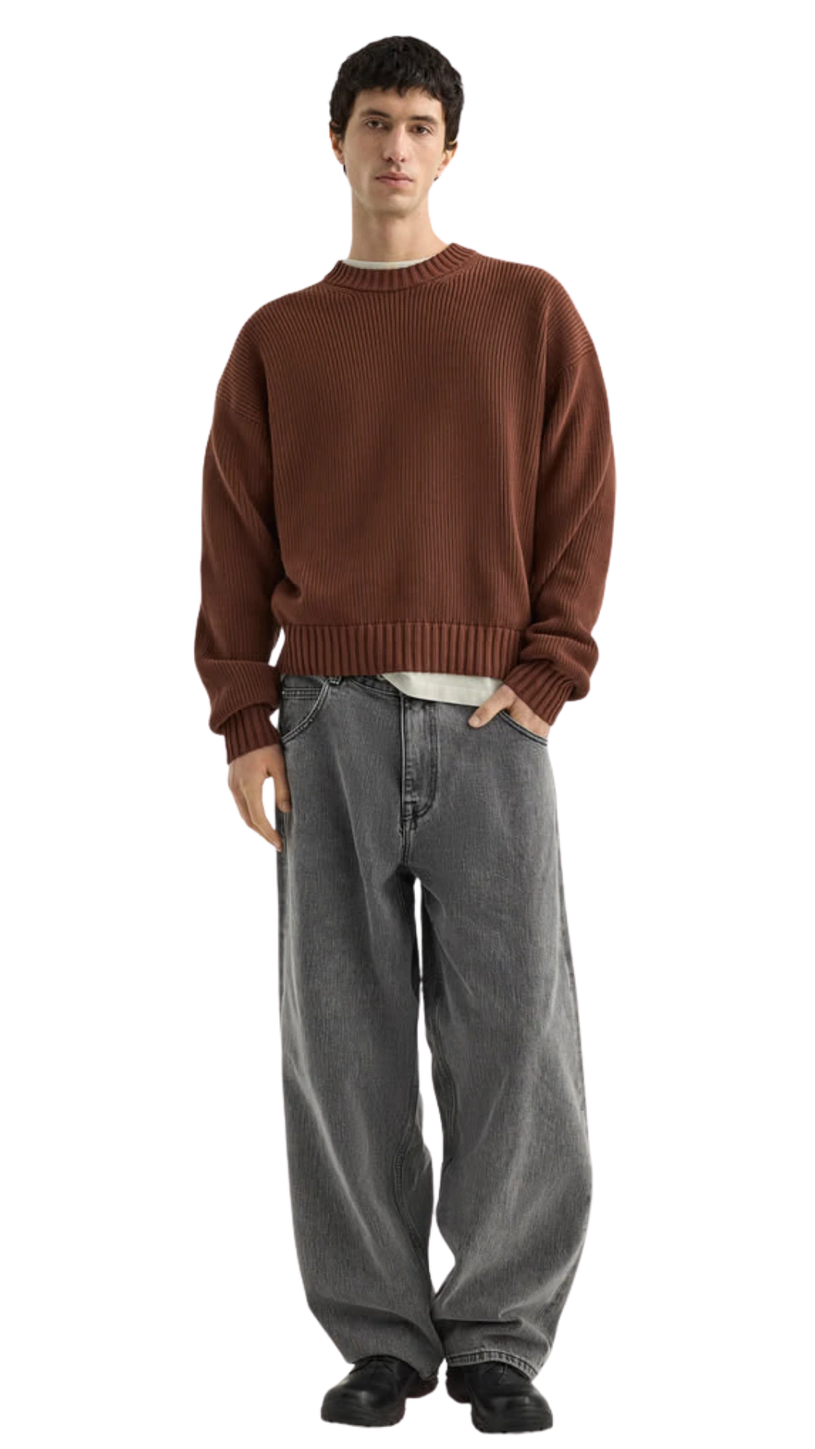
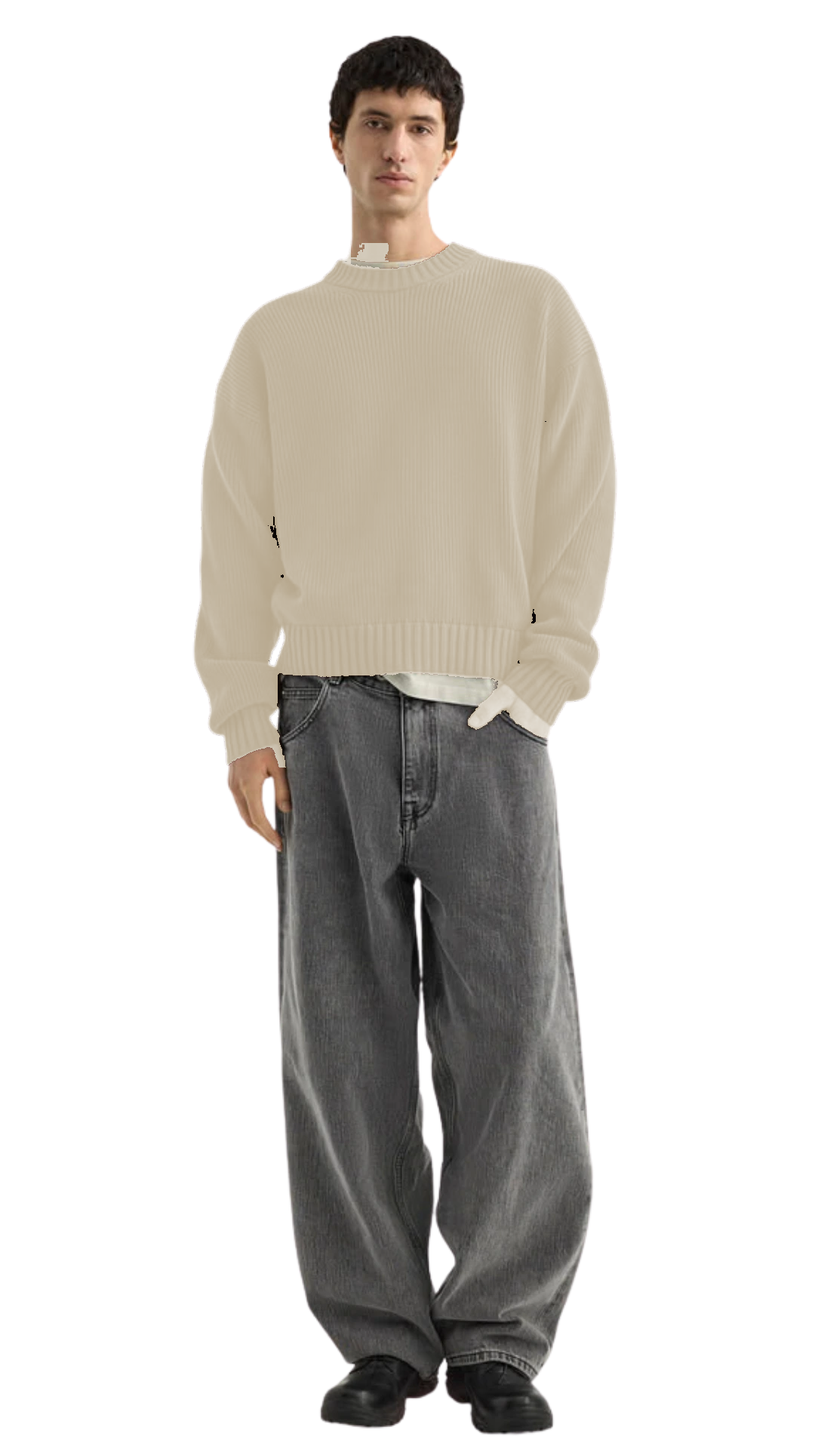
Synchronize runway outfits with In This Look pieces, recolor Look 5 sweater to cream, and localize model images

Changed region(s): [[0.2139, 0.1562, 0.7639, 0.5312]]

diff --git a/index.html b/index.html
@@ -4232,7 +4232,7 @@ none;
           <div class="rw__model" data-rw-model="" data-index="0" aria-hidden="true" style="transform: translate3d(630.35px, -50.28px, 0px) translateX(-50%) scale(0.938); opacity: 1; z-index: 938; visibility: visible; filter: blur(2.1px); --rw-foot: 0.0000;">
             <span class="rw__shadow" aria-hidden="true"></span>
             <div class="rw__figure" style="--rw-ar: 0.5625;"><div class="rw__art">
-              <img src="./assets/images/asset_032_c542d7ba2d88.png" alt="The City Edit" srcset="https://nike-makknzjs.myshopify.com/cdn/shop/files/1.webp?v=1792848434&amp;width=360 360w, //nike-makknzjs.myshopify.com/cdn/shop/files/1.webp?v=1792848434&amp;width=540 540w, //nike-makknzjs.myshopify.com/cdn/shop/files/1.webp?v=1792848434&amp;width=720 720w, //nike-makknzjs.myshopify.com/cdn/shop/files/1.webp?v=1792848434&amp;width=900 900w, //nike-makknzjs.myshopify.com/cdn/shop/files/1.webp?v=1792848434&amp;width=1100 1100w" width="1100" height="1956" loading="lazy" sizes="(min-width: 750px) 320px, 220px" draggable="false">
+              <img src="./assets/images/asset_032_c542d7ba2d88.png" alt="The City Edit" srcset="./assets/images/asset_032_c542d7ba2d88.png 1100w" width="1100" height="1956" loading="lazy" sizes="(min-width: 750px) 320px, 220px" draggable="false">
 
               
               <button type="button" class="rw__hit" data-rw-go="0" aria-label="Look 1: The City Edit" tabindex="-1" aria-hidden="true"></button>
@@ -4241,7 +4241,7 @@ none;
           <div class="rw__model" data-rw-model="" data-index="1" style="transform: translate3d(730.33px, -80.28px, 0px) translateX(-50%) scale(0.8237); opacity: 1; z-index: 824; visibility: visible; filter: blur(4.1px); --rw-foot: 0.0116;">
             <span class="rw__shadow" aria-hidden="true"></span>
             <div class="rw__figure" style="--rw-ar: 0.5625;"><div class="rw__art">
-              <img src="./assets/images/asset_033_104e67cd90f1.png" alt="Gallery Opening" srcset="https://nike-makknzjs.myshopify.com/cdn/shop/files/5.webp?v=1792848434&amp;width=360 360w, //nike-makknzjs.myshopify.com/cdn/shop/files/5.webp?v=1792848434&amp;width=540 540w, //nike-makknzjs.myshopify.com/cdn/shop/files/5.webp?v=1792848434&amp;width=720 720w, //nike-makknzjs.myshopify.com/cdn/shop/files/5.webp?v=1792848434&amp;width=900 900w, //nike-makknzjs.myshopify.com/cdn/shop/files/5.webp?v=1792848434&amp;width=1100 1100w" width="1100" height="1956" loading="lazy" sizes="(min-width: 750px) 320px, 220px" draggable="false">
+              <img src="./assets/images/asset_033_104e67cd90f1.png" alt="Gallery Opening" srcset="./assets/images/asset_033_104e67cd90f1.png 1100w" width="1100" height="1956" loading="lazy" sizes="(min-width: 750px) 320px, 220px" draggable="false">
 
               
               <button type="button" class="rw__hit" data-rw-go="1" aria-label="Look 2: Gallery Opening" tabindex="0" aria-hidden="false"></button>
@@ -4250,7 +4250,7 @@ none;
           <div class="rw__model" data-rw-model="" data-index="2" style="transform: translate3d(714.28px, -109.72px, 0px) translateX(-50%) scale(0.7116); opacity: 1; z-index: 712; visibility: visible; filter: blur(6.1px); --rw-foot: 0.0116;">
             <span class="rw__shadow" aria-hidden="true"></span>
             <div class="rw__figure" style="--rw-ar: 0.5625;"><div class="rw__art">
-              <img src="./assets/images/asset_034_aaf07ffb0535.png" alt="Gallery Opening" srcset="https://nike-makknzjs.myshopify.com/cdn/shop/files/4.webp?v=1792848434&amp;width=360 360w, //nike-makknzjs.myshopify.com/cdn/shop/files/4.webp?v=1792848434&amp;width=540 540w, //nike-makknzjs.myshopify.com/cdn/shop/files/4.webp?v=1792848434&amp;width=720 720w, //nike-makknzjs.myshopify.com/cdn/shop/files/4.webp?v=1792848434&amp;width=900 900w, //nike-makknzjs.myshopify.com/cdn/shop/files/4.webp?v=1792848434&amp;width=1100 1100w" width="1100" height="1956" loading="lazy" sizes="(min-width: 750px) 320px, 220px" draggable="false">
+              <img src="./assets/images/asset_034_aaf07ffb0535.png" alt="Gallery Opening" srcset="./assets/images/asset_034_aaf07ffb0535.png 1100w" width="1100" height="1956" loading="lazy" sizes="(min-width: 750px) 320px, 220px" draggable="false">
 
               
               <button type="button" class="rw__hit" data-rw-go="2" aria-label="Look 3: Gallery Opening" tabindex="0" aria-hidden="false"></button>
@@ -4259,7 +4259,7 @@ none;
           <div class="rw__model" data-rw-model="" data-index="3" aria-hidden="true" style="transform: translate3d(624.45px, -131.29px, 0px) translateX(-50%) scale(0.6295); opacity: 0; z-index: 629; visibility: hidden; pointer-events: none; filter: blur(6.5px); --rw-foot: 0.0000;">
             <span class="rw__shadow" aria-hidden="true"></span>
             <div class="rw__figure" style="--rw-ar: 0.5625;"><div class="rw__art">
-              <img src="./assets/images/asset_035_c83d695275cd.png" alt="Studio Day" srcset="https://nike-makknzjs.myshopify.com/cdn/shop/files/6.webp?v=1792848434&amp;width=360 360w, //nike-makknzjs.myshopify.com/cdn/shop/files/6.webp?v=1792848434&amp;width=540 540w, //nike-makknzjs.myshopify.com/cdn/shop/files/6.webp?v=1792848434&amp;width=720 720w, //nike-makknzjs.myshopify.com/cdn/shop/files/6.webp?v=1792848434&amp;width=900 900w, //nike-makknzjs.myshopify.com/cdn/shop/files/6.webp?v=1792848434&amp;width=1100 1100w" width="1100" height="1956" loading="lazy" sizes="(min-width: 750px) 320px, 220px" draggable="false">
+              <img src="./assets/images/asset_035_c83d695275cd.png" alt="Studio Day" srcset="./assets/images/asset_035_c83d695275cd.png 1100w" width="1100" height="1956" loading="lazy" sizes="(min-width: 750px) 320px, 220px" draggable="false">
 
               
               <button type="button" class="rw__hit" data-rw-go="3" aria-label="Look 4: Studio Day" tabindex="-1" aria-hidden="true"></button>
@@ -4268,7 +4268,7 @@ none;
           <div class="rw__model" data-rw-model="" data-index="4" aria-hidden="true" style="transform: translate3d(498.29px, -143.46px, 0px) translateX(-50%) scale(0.5831); opacity: 0; z-index: 583; visibility: hidden; pointer-events: none; filter: blur(6.5px); --rw-foot: 0.0116;">
             <span class="rw__shadow" aria-hidden="true"></span>
             <div class="rw__figure" style="--rw-ar: 0.5625;"><div class="rw__art">
-              <img src="./assets/images/asset_036_a13d3f199969.png" alt="Studio Day" srcset="https://nike-makknzjs.myshopify.com/cdn/shop/files/3.webp?v=1792848434&amp;width=360 360w, //nike-makknzjs.myshopify.com/cdn/shop/files/3.webp?v=1792848434&amp;width=540 540w, //nike-makknzjs.myshopify.com/cdn/shop/files/3.webp?v=1792848434&amp;width=720 720w, //nike-makknzjs.myshopify.com/cdn/shop/files/3.webp?v=1792848434&amp;width=900 900w, //nike-makknzjs.myshopify.com/cdn/shop/files/3.webp?v=1792848434&amp;width=1100 1100w" width="1100" height="1956" loading="lazy" sizes="(min-width: 750px) 320px, 220px" draggable="false">
+              <img src="./assets/images/asset_036_a13d3f199969.png" alt="Studio Day" srcset="./assets/images/asset_036_a13d3f199969.png 1100w" width="1100" height="1956" loading="lazy" sizes="(min-width: 750px) 320px, 220px" draggable="false">
 
               
               <button type="button" class="rw__hit" data-rw-go="4" aria-label="Look 5: Studio Day" tabindex="-1" aria-hidden="true"></button>
@@ -4277,7 +4277,7 @@ none;
           <div class="rw__model" data-rw-model="" data-index="5" aria-hidden="true" style="transform: translate3d(358.88px, -146.56px, 0px) translateX(-50%) scale(0.5713); opacity: 0; z-index: 571; visibility: hidden; pointer-events: none; filter: blur(6.5px); --rw-foot: 0.0116;">
             <span class="rw__shadow" aria-hidden="true"></span>
             <div class="rw__figure" style="--rw-ar: 0.5625;"><div class="rw__art">
-              <img src="./assets/images/asset_037_ab5c8985a265.png" alt="Studio Day" srcset="https://nike-makknzjs.myshopify.com/cdn/shop/files/2.webp?v=1792848434&amp;width=360 360w, //nike-makknzjs.myshopify.com/cdn/shop/files/2.webp?v=1792848434&amp;width=540 540w, //nike-makknzjs.myshopify.com/cdn/shop/files/2.webp?v=1792848434&amp;width=720 720w, //nike-makknzjs.myshopify.com/cdn/shop/files/2.webp?v=1792848434&amp;width=900 900w, //nike-makknzjs.myshopify.com/cdn/shop/files/2.webp?v=1792848434&amp;width=1100 1100w" width="1100" height="1956" loading="lazy" sizes="(min-width: 750px) 320px, 220px" draggable="false">
+              <img src="./assets/images/asset_037_ab5c8985a265.png" alt="Studio Day" srcset="./assets/images/asset_037_ab5c8985a265.png 1100w" width="1100" height="1956" loading="lazy" sizes="(min-width: 750px) 320px, 220px" draggable="false">
 
               
               <button type="button" class="rw__hit" data-rw-go="5" aria-label="Look 6: Studio Day" tabindex="-1" aria-hidden="true"></button>
@@ -4285,7 +4285,7 @@ none;
           </div><div class="rw__model" data-rw-model="" data-index="0" aria-hidden="true" data-rw-clone="" style="transform: translate3d(221.65px, -140.78px, 0px) translateX(-50%) scale(0.5933); opacity: 0; z-index: 593; visibility: hidden; pointer-events: none; filter: blur(6.5px); --rw-foot: 0.0000;">
             <span class="rw__shadow" aria-hidden="true"></span>
             <div class="rw__figure" style="--rw-ar: 0.5625;"><div class="rw__art">
-              <img src="./assets/images/asset_032_c542d7ba2d88.png" alt="The City Edit" srcset="https://nike-makknzjs.myshopify.com/cdn/shop/files/1.webp?v=1792848434&amp;width=360 360w, //nike-makknzjs.myshopify.com/cdn/shop/files/1.webp?v=1792848434&amp;width=540 540w, //nike-makknzjs.myshopify.com/cdn/shop/files/1.webp?v=1792848434&amp;width=720 720w, //nike-makknzjs.myshopify.com/cdn/shop/files/1.webp?v=1792848434&amp;width=900 900w, //nike-makknzjs.myshopify.com/cdn/shop/files/1.webp?v=1792848434&amp;width=1100 1100w" width="1100" height="1956" loading="lazy" sizes="(min-width: 750px) 320px, 220px" draggable="false">
+              <img src="./assets/images/asset_032_c542d7ba2d88.png" alt="The City Edit" srcset="./assets/images/asset_032_c542d7ba2d88.png 1100w" width="1100" height="1956" loading="lazy" sizes="(min-width: 750px) 320px, 220px" draggable="false">
 
               
               <button type="button" class="rw__hit" data-rw-go="0" aria-label="Look 1: The City Edit" tabindex="-1" aria-hidden="true"></button>
@@ -4293,7 +4293,7 @@ none;
           </div><div class="rw__model" data-rw-model="" data-index="1" aria-hidden="true" data-rw-clone="" style="transform: translate3d(103.39px, -125.8px, 0px) translateX(-50%) scale(0.6504); opacity: 0.398; z-index: 650; visibility: visible; pointer-events: none; filter: blur(6.5px); --rw-foot: 0.0116;">
             <span class="rw__shadow" aria-hidden="true"></span>
             <div class="rw__figure" style="--rw-ar: 0.5625;"><div class="rw__art">
-              <img src="./assets/images/asset_033_104e67cd90f1.png" alt="Gallery Opening" srcset="https://nike-makknzjs.myshopify.com/cdn/shop/files/5.webp?v=1792848434&amp;width=360 360w, //nike-makknzjs.myshopify.com/cdn/shop/files/5.webp?v=1792848434&amp;width=540 540w, //nike-makknzjs.myshopify.com/cdn/shop/files/5.webp?v=1792848434&amp;width=720 720w, //nike-makknzjs.myshopify.com/cdn/shop/files/5.webp?v=1792848434&amp;width=900 900w, //nike-makknzjs.myshopify.com/cdn/shop/files/5.webp?v=1792848434&amp;width=1100 1100w" width="1100" height="1956" loading="lazy" sizes="(min-width: 750px) 320px, 220px" draggable="false">
+              <img src="./assets/images/asset_033_104e67cd90f1.png" alt="Gallery Opening" srcset="./assets/images/asset_033_104e67cd90f1.png 1100w" width="1100" height="1956" loading="lazy" sizes="(min-width: 750px) 320px, 220px" draggable="false">
 
               
               <button type="button" class="rw__hit" data-rw-go="1" aria-label="Look 2: Gallery Opening" tabindex="-1" aria-hidden="true"></button>
@@ -4301,7 +4301,7 @@ none;
           </div><div class="rw__model" data-rw-model="" data-index="2" aria-hidden="true" data-rw-clone="" style="transform: translate3d(31.08px, -101.54px, 0px) translateX(-50%) scale(0.7428); opacity: 1; z-index: 743; visibility: visible; filter: blur(5.5px); --rw-foot: 0.0116;">
             <span class="rw__shadow" aria-hidden="true"></span>
             <div class="rw__figure" style="--rw-ar: 0.5625;"><div class="rw__art">
-              <img src="./assets/images/asset_034_aaf07ffb0535.png" alt="Gallery Opening" srcset="https://nike-makknzjs.myshopify.com/cdn/shop/files/4.webp?v=1792848434&amp;width=360 360w, //nike-makknzjs.myshopify.com/cdn/shop/files/4.webp?v=1792848434&amp;width=540 540w, //nike-makknzjs.myshopify.com/cdn/shop/files/4.webp?v=1792848434&amp;width=720 720w, //nike-makknzjs.myshopify.com/cdn/shop/files/4.webp?v=1792848434&amp;width=900 900w, //nike-makknzjs.myshopify.com/cdn/shop/files/4.webp?v=1792848434&amp;width=1100 1100w" width="1100" height="1956" loading="lazy" sizes="(min-width: 750px) 320px, 220px" draggable="false">
+              <img src="./assets/images/asset_034_aaf07ffb0535.png" alt="Gallery Opening" srcset="./assets/images/asset_034_aaf07ffb0535.png 1100w" width="1100" height="1956" loading="lazy" sizes="(min-width: 750px) 320px, 220px" draggable="false">
 
               
               <button type="button" class="rw__hit" data-rw-go="2" aria-label="Look 3: Gallery Opening" tabindex="-1" aria-hidden="true"></button>
@@ -4309,7 +4309,7 @@ none;
           </div><div class="rw__model" data-rw-model="" data-index="3" aria-hidden="true" data-rw-clone="" style="transform: translate3d(46.08px, -70.79px, 0px) translateX(-50%) scale(0.8599); opacity: 1; z-index: 860; visibility: visible; filter: blur(3.5px); --rw-foot: 0.0000;">
             <span class="rw__shadow" aria-hidden="true"></span>
             <div class="rw__figure" style="--rw-ar: 0.5625;"><div class="rw__art">
-              <img src="./assets/images/asset_035_c83d695275cd.png" alt="Studio Day" srcset="https://nike-makknzjs.myshopify.com/cdn/shop/files/6.webp?v=1792848434&amp;width=360 360w, //nike-makknzjs.myshopify.com/cdn/shop/files/6.webp?v=1792848434&amp;width=540 540w, //nike-makknzjs.myshopify.com/cdn/shop/files/6.webp?v=1792848434&amp;width=720 720w, //nike-makknzjs.myshopify.com/cdn/shop/files/6.webp?v=1792848434&amp;width=900 900w, //nike-makknzjs.myshopify.com/cdn/shop/files/6.webp?v=1792848434&amp;width=1100 1100w" width="1100" height="1956" loading="lazy" sizes="(min-width: 750px) 320px, 220px" draggable="false">
+              <img src="./assets/images/asset_035_c83d695275cd.png" alt="Studio Day" srcset="./assets/images/asset_035_c83d695275cd.png 1100w" width="1100" height="1956" loading="lazy" sizes="(min-width: 750px) 320px, 220px" draggable="false">
 
               
               <button type="button" class="rw__hit" data-rw-go="3" aria-label="Look 4: Studio Day" tabindex="-1" aria-hidden="true"></button>
@@ -4317,7 +4317,7 @@ none;
           </div><div class="rw__model" data-rw-model="" data-index="4" data-rw-clone="" style="transform: translate3d(184.31px, -43.27px, 0px) translateX(-50%) scale(0.9763); opacity: 1; z-index: 976; visibility: visible; filter: blur(1.5px); --rw-foot: 0.0116;">
             <span class="rw__shadow" aria-hidden="true"></span>
             <div class="rw__figure" style="--rw-ar: 0.5625;"><div class="rw__art">
-              <img src="./assets/images/asset_036_a13d3f199969.png" alt="Studio Day" srcset="https://nike-makknzjs.myshopify.com/cdn/shop/files/3.webp?v=1792848434&amp;width=360 360w, //nike-makknzjs.myshopify.com/cdn/shop/files/3.webp?v=1792848434&amp;width=540 540w, //nike-makknzjs.myshopify.com/cdn/shop/files/3.webp?v=1792848434&amp;width=720 720w, //nike-makknzjs.myshopify.com/cdn/shop/files/3.webp?v=1792848434&amp;width=900 900w, //nike-makknzjs.myshopify.com/cdn/shop/files/3.webp?v=1792848434&amp;width=1100 1100w" width="1100" height="1956" loading="lazy" sizes="(min-width: 750px) 320px, 220px" draggable="false">
+              <img src="./assets/images/asset_036_a13d3f199969.png" alt="Studio Day" srcset="./assets/images/asset_036_a13d3f199969.png 1100w" width="1100" height="1956" loading="lazy" sizes="(min-width: 750px) 320px, 220px" draggable="false">
 
               
               <button type="button" class="rw__hit" data-rw-go="4" aria-label="Look 5: Studio Day" tabindex="0" aria-hidden="false"></button>
@@ -4325,7 +4325,7 @@ none;
           </div><div class="rw__model" data-rw-model="" data-index="5" data-rw-clone="" style="transform: translate3d(416.93px, -34.3px, 0px) translateX(-50%) scale(1.0668); opacity: 1; z-index: 1067; visibility: visible; filter: blur(0.3px); --rw-foot: 0.0116;">
             <span class="rw__shadow" aria-hidden="true"></span>
             <div class="rw__figure" style="--rw-ar: 0.5625;"><div class="rw__art">
-              <img src="./assets/images/asset_037_ab5c8985a265.png" alt="Studio Day" srcset="https://nike-makknzjs.myshopify.com/cdn/shop/files/2.webp?v=1792848434&amp;width=360 360w, //nike-makknzjs.myshopify.com/cdn/shop/files/2.webp?v=1792848434&amp;width=540 540w, //nike-makknzjs.myshopify.com/cdn/shop/files/2.webp?v=1792848434&amp;width=720 720w, //nike-makknzjs.myshopify.com/cdn/shop/files/2.webp?v=1792848434&amp;width=900 900w, //nike-makknzjs.myshopify.com/cdn/shop/files/2.webp?v=1792848434&amp;width=1100 1100w" width="1100" height="1956" loading="lazy" sizes="(min-width: 750px) 320px, 220px" draggable="false">
+              <img src="./assets/images/asset_037_ab5c8985a265.png" alt="Studio Day" srcset="./assets/images/asset_037_ab5c8985a265.png 1100w" width="1100" height="1956" loading="lazy" sizes="(min-width: 750px) 320px, 220px" draggable="false">
 
               
               <button type="button" class="rw__hit" data-rw-go="5" aria-label="Look 6: Studio Day" tabindex="0" aria-hidden="false"></button>
@@ -4336,17 +4336,17 @@ none;
             <div class="rw__morph">
               <span class="rw__shadow" aria-hidden="true"></span>
               <div class="rw__figure" style="--rw-ar: 0.5625;"><div class="rw__art">
-                <img src="./assets/images/asset_032_c542d7ba2d88.png" alt="The City Edit" srcset="https://nike-makknzjs.myshopify.com/cdn/shop/files/1.webp?v=1792848434&amp;width=360 360w, //nike-makknzjs.myshopify.com/cdn/shop/files/1.webp?v=1792848434&amp;width=540 540w, //nike-makknzjs.myshopify.com/cdn/shop/files/1.webp?v=1792848434&amp;width=720 720w, //nike-makknzjs.myshopify.com/cdn/shop/files/1.webp?v=1792848434&amp;width=900 900w, //nike-makknzjs.myshopify.com/cdn/shop/files/1.webp?v=1792848434&amp;width=1100 1100w" width="1100" height="1956" loading="eager" sizes="(min-width: 750px) 320px, 220px" draggable="false">
+                <img src="./assets/images/asset_032_c542d7ba2d88.png" alt="The City Edit" srcset="./assets/images/asset_032_c542d7ba2d88.png 1100w" width="1100" height="1956" loading="eager" sizes="(min-width: 750px) 320px, 220px" draggable="false">
 
                 
 <button type="button" class="rw__zoom" data-rw-zoom="" aria-label="View look: The City Edit" tabindex="0"></button><div class="rw__pins">
-    <button type="button" class="rw__pin" data-rw-pin="1" data-tip="Sweatshirt" style="left: 47%; top: 27%; --pi: 1;" aria-label="1: Sweatshirt" tabindex="-1">
+    <button type="button" class="rw__pin" data-rw-pin="1" data-tip="Blazzer" style="left: 47%; top: 27%; --pi: 1;" aria-label="1: Blazzer" tabindex="-1">
       <span class="rw__pin-dot" aria-hidden="true">1</span>
     </button>
-    <button type="button" class="rw__pin" data-rw-pin="2" data-tip="Tshirt" style="left: 48%; top: 58%; --pi: 2;" aria-label="2: Tshirt" tabindex="-1">
+    <button type="button" class="rw__pin" data-rw-pin="2" data-tip="Tshirt" style="left: 48%; top: 44%; --pi: 2;" aria-label="2: Tshirt" tabindex="-1">
       <span class="rw__pin-dot" aria-hidden="true">2</span>
     </button>
-    <button type="button" class="rw__pin" data-rw-pin="3" data-tip="Air Jordan 12 Retro" style="left: 45%; top: 96%; --pi: 3;" aria-label="3: Air Jordan 12 Retro" tabindex="-1">
+    <button type="button" class="rw__pin" data-rw-pin="3" data-tip="Air Jordan 12 Retro" style="left: 45%; top: 92%; --pi: 3;" aria-label="3: Air Jordan 12 Retro" tabindex="-1">
       <span class="rw__pin-dot" aria-hidden="true">3</span>
     </button></div></div></div>
             </div>
@@ -4355,17 +4355,17 @@ none;
             <div class="rw__morph">
               <span class="rw__shadow" aria-hidden="true"></span>
               <div class="rw__figure" style="--rw-ar: 0.5625;"><div class="rw__art">
-                <img src="./assets/images/asset_033_104e67cd90f1.png" alt="Gallery Opening" srcset="https://nike-makknzjs.myshopify.com/cdn/shop/files/5.webp?v=1792848434&amp;width=360 360w, //nike-makknzjs.myshopify.com/cdn/shop/files/5.webp?v=1792848434&amp;width=540 540w, //nike-makknzjs.myshopify.com/cdn/shop/files/5.webp?v=1792848434&amp;width=720 720w, //nike-makknzjs.myshopify.com/cdn/shop/files/5.webp?v=1792848434&amp;width=900 900w, //nike-makknzjs.myshopify.com/cdn/shop/files/5.webp?v=1792848434&amp;width=1100 1100w" width="1100" height="1956" loading="lazy" sizes="(min-width: 750px) 320px, 220px" draggable="false">
+                <img src="./assets/images/asset_033_104e67cd90f1.png" alt="Gallery Opening" srcset="./assets/images/asset_033_104e67cd90f1.png 1100w" width="1100" height="1956" loading="lazy" sizes="(min-width: 750px) 320px, 220px" draggable="false">
 
                 
 <button type="button" class="rw__zoom" data-rw-zoom="" aria-label="View look: Gallery Opening" tabindex="-1"></button><div class="rw__pins">
-    <button type="button" class="rw__pin" data-rw-pin="1" data-tip="Hoodie Black" style="left: 50%; top: 28%; --pi: 1;" aria-label="1: Hoodie Black" tabindex="-1">
+    <button type="button" class="rw__pin" data-rw-pin="1" data-tip="Sweatshirt" style="left: 50%; top: 28%; --pi: 1;" aria-label="1: Hoodie Black" tabindex="-1">
       <span class="rw__pin-dot" aria-hidden="true">1</span>
     </button>
-    <button type="button" class="rw__pin" data-rw-pin="2" data-tip="Tshirt" style="left: 48%; top: 58%; --pi: 2;" aria-label="2: Tshirt" tabindex="-1">
+    <button type="button" class="rw__pin" data-rw-pin="2" data-tip="Tshirt" style="left: 48%; top: 44%; --pi: 2;" aria-label="2: Tshirt" tabindex="-1">
       <span class="rw__pin-dot" aria-hidden="true">2</span>
     </button>
-    <button type="button" class="rw__pin" data-rw-pin="3" data-tip="Tatum 5 Orbit" style="left: 45%; top: 88%; --pi: 3;" aria-label="3: Tatum 5 Orbit" tabindex="-1">
+    <button type="button" class="rw__pin" data-rw-pin="3" data-tip="Tatum 5 Orbit" style="left: 45%; top: 92%; --pi: 3;" aria-label="3: Tatum 5 Orbit" tabindex="-1">
       <span class="rw__pin-dot" aria-hidden="true">3</span>
     </button></div></div></div>
             </div>
@@ -4374,17 +4374,17 @@ none;
             <div class="rw__morph">
               <span class="rw__shadow" aria-hidden="true"></span>
               <div class="rw__figure" style="--rw-ar: 0.5625;"><div class="rw__art">
-                <img src="./assets/images/asset_034_aaf07ffb0535.png" alt="Gallery Opening" srcset="https://nike-makknzjs.myshopify.com/cdn/shop/files/4.webp?v=1792848434&amp;width=360 360w, //nike-makknzjs.myshopify.com/cdn/shop/files/4.webp?v=1792848434&amp;width=540 540w, //nike-makknzjs.myshopify.com/cdn/shop/files/4.webp?v=1792848434&amp;width=720 720w, //nike-makknzjs.myshopify.com/cdn/shop/files/4.webp?v=1792848434&amp;width=900 900w, //nike-makknzjs.myshopify.com/cdn/shop/files/4.webp?v=1792848434&amp;width=1100 1100w" width="1100" height="1956" loading="lazy" sizes="(min-width: 750px) 320px, 220px" draggable="false">
+                <img src="./assets/images/asset_034_aaf07ffb0535.png" alt="Gallery Opening" srcset="./assets/images/asset_034_aaf07ffb0535.png 1100w" width="1100" height="1956" loading="lazy" sizes="(min-width: 750px) 320px, 220px" draggable="false">
 
                 
 <button type="button" class="rw__zoom" data-rw-zoom="" aria-label="View look: Gallery Opening" tabindex="-1"></button><div class="rw__pins">
     <button type="button" class="rw__pin" data-rw-pin="1" data-tip="Sweatshirt Plus" style="left: 50%; top: 28%; --pi: 1;" aria-label="1: Sweatshirt Plus" tabindex="-1">
       <span class="rw__pin-dot" aria-hidden="true">1</span>
     </button>
-    <button type="button" class="rw__pin" data-rw-pin="2" data-tip="Tshirt" style="left: 48%; top: 58%; --pi: 2;" aria-label="2: Tshirt" tabindex="-1">
+    <button type="button" class="rw__pin" data-rw-pin="2" data-tip="Tshirt" style="left: 48%; top: 44%; --pi: 2;" aria-label="2: Tshirt" tabindex="-1">
       <span class="rw__pin-dot" aria-hidden="true">2</span>
     </button>
-    <button type="button" class="rw__pin" data-rw-pin="3" data-tip="Tatum 5 Orbit" style="left: 45%; top: 88%; --pi: 3;" aria-label="3: Tatum 5 Orbit" tabindex="-1">
+    <button type="button" class="rw__pin" data-rw-pin="3" data-tip="Tatum 5 Orbit" style="left: 45%; top: 92%; --pi: 3;" aria-label="3: Tatum 5 Orbit" tabindex="-1">
       <span class="rw__pin-dot" aria-hidden="true">3</span>
     </button></div></div></div>
             </div>
@@ -4393,36 +4393,36 @@ none;
             <div class="rw__morph">
               <span class="rw__shadow" aria-hidden="true"></span>
               <div class="rw__figure" style="--rw-ar: 0.5625;"><div class="rw__art">
-                <img src="./assets/images/asset_035_c83d695275cd.png" alt="Studio Day" srcset="https://nike-makknzjs.myshopify.com/cdn/shop/files/6.webp?v=1792848434&amp;width=360 360w, //nike-makknzjs.myshopify.com/cdn/shop/files/6.webp?v=1792848434&amp;width=540 540w, //nike-makknzjs.myshopify.com/cdn/shop/files/6.webp?v=1792848434&amp;width=720 720w, //nike-makknzjs.myshopify.com/cdn/shop/files/6.webp?v=1792848434&amp;width=900 900w, //nike-makknzjs.myshopify.com/cdn/shop/files/6.webp?v=1792848434&amp;width=1100 1100w" width="1100" height="1956" loading="lazy" sizes="(min-width: 750px) 320px, 220px" draggable="false">
+                <img src="./assets/images/asset_035_c83d695275cd.png" alt="Studio Day" srcset="./assets/images/asset_035_c83d695275cd.png 1100w" width="1100" height="1956" loading="lazy" sizes="(min-width: 750px) 320px, 220px" draggable="false">
 
                 
 <button type="button" class="rw__zoom" data-rw-zoom="" aria-label="View look: Studio Day" tabindex="-1"></button><div class="rw__pins">
     <button type="button" class="rw__pin" data-rw-pin="1" data-tip="Hoodie Black" style="left: 50%; top: 28%; --pi: 1;" aria-label="1: Hoodie Black" tabindex="-1">
       <span class="rw__pin-dot" aria-hidden="true">1</span>
     </button>
-    <button type="button" class="rw__pin" data-rw-pin="2" data-tip="Tshirt" style="left: 48%; top: 58%; --pi: 2;" aria-label="2: Tshirt" tabindex="-1">
+    <button type="button" class="rw__pin" data-rw-pin="2" data-tip="Tshirt" style="left: 48%; top: 44%; --pi: 2;" aria-label="2: Tshirt" tabindex="-1">
       <span class="rw__pin-dot" aria-hidden="true">2</span>
     </button>
-    <button type="button" class="rw__pin" data-rw-pin="3" data-tip="Air Jordan 12 Retro" style="left: 45%; top: 88%; --pi: 3;" aria-label="3: Air Jordan 12 Retro" tabindex="-1">
+    <button type="button" class="rw__pin" data-rw-pin="3" data-tip="Air Jordan 12 Retro" style="left: 45%; top: 92%; --pi: 3;" aria-label="3: Air Jordan 12 Retro" tabindex="-1">
       <span class="rw__pin-dot" aria-hidden="true">3</span>
     </button></div></div></div>
             </div>
           </div>
-          <div class="rw__hero" data-rw-hero="" data-index="4" data-name="Studio Day" data-label="Look 5: Studio Day" data-probe="https://nike-makknzjs.myshopify.com/cdn/shop/files/3.webp?v=1792848434&amp;width=96" aria-hidden="true" style="--rw-foot: 0.0116;">
+          <div class="rw__hero" data-rw-hero="" data-index="4" data-name="Studio Day" data-label="Look 5: Studio Day" data-probe="./assets/images/asset_036_a13d3f199969.png" aria-hidden="true" style="--rw-foot: 0.0116;">
             <div class="rw__morph">
               <span class="rw__shadow" aria-hidden="true"></span>
               <div class="rw__figure" style="--rw-ar: 0.5625;"><div class="rw__art">
-                <img src="./assets/images/asset_036_a13d3f199969.png" alt="Studio Day" srcset="https://nike-makknzjs.myshopify.com/cdn/shop/files/3.webp?v=1792848434&amp;width=360 360w, //nike-makknzjs.myshopify.com/cdn/shop/files/3.webp?v=1792848434&amp;width=540 540w, //nike-makknzjs.myshopify.com/cdn/shop/files/3.webp?v=1792848434&amp;width=720 720w, //nike-makknzjs.myshopify.com/cdn/shop/files/3.webp?v=1792848434&amp;width=900 900w, //nike-makknzjs.myshopify.com/cdn/shop/files/3.webp?v=1792848434&amp;width=1100 1100w" width="1100" height="1956" loading="lazy" sizes="(min-width: 750px) 320px, 220px" draggable="false">
+                <img src="./assets/images/asset_036_a13d3f199969.png" alt="Studio Day" srcset="./assets/images/asset_036_a13d3f199969.png 1100w" width="1100" height="1956" loading="lazy" sizes="(min-width: 750px) 320px, 220px" draggable="false">
 
                 
 <button type="button" class="rw__zoom" data-rw-zoom="" aria-label="View look: Studio Day" tabindex="-1"></button><div class="rw__pins">
     <button type="button" class="rw__pin" data-rw-pin="1" data-tip="Sweatshirt" style="left: 50%; top: 28%; --pi: 1;" aria-label="1: Sweatshirt" tabindex="-1">
       <span class="rw__pin-dot" aria-hidden="true">1</span>
     </button>
-    <button type="button" class="rw__pin" data-rw-pin="2" data-tip="Tshirt" style="left: 48%; top: 58%; --pi: 2;" aria-label="2: Tshirt" tabindex="-1">
+    <button type="button" class="rw__pin" data-rw-pin="2" data-tip="Tshirt" style="left: 48%; top: 44%; --pi: 2;" aria-label="2: Tshirt" tabindex="-1">
       <span class="rw__pin-dot" aria-hidden="true">2</span>
     </button>
-    <button type="button" class="rw__pin" data-rw-pin="3" data-tip="Tatum 5 Orbit" style="left: 45%; top: 88%; --pi: 3;" aria-label="3: Tatum 5 Orbit" tabindex="-1">
+    <button type="button" class="rw__pin" data-rw-pin="3" data-tip="Tatum 5 Orbit" style="left: 45%; top: 92%; --pi: 3;" aria-label="3: Tatum 5 Orbit" tabindex="-1">
       <span class="rw__pin-dot" aria-hidden="true">3</span>
     </button></div></div></div>
             </div>
@@ -4431,17 +4431,17 @@ none;
             <div class="rw__morph">
               <span class="rw__shadow" aria-hidden="true"></span>
               <div class="rw__figure" style="--rw-ar: 0.5625;"><div class="rw__art">
-                <img src="./assets/images/asset_037_ab5c8985a265.png" alt="Studio Day" srcset="https://nike-makknzjs.myshopify.com/cdn/shop/files/2.webp?v=1792848434&amp;width=360 360w, //nike-makknzjs.myshopify.com/cdn/shop/files/2.webp?v=1792848434&amp;width=540 540w, //nike-makknzjs.myshopify.com/cdn/shop/files/2.webp?v=1792848434&amp;width=720 720w, //nike-makknzjs.myshopify.com/cdn/shop/files/2.webp?v=1792848434&amp;width=900 900w, //nike-makknzjs.myshopify.com/cdn/shop/files/2.webp?v=1792848434&amp;width=1100 1100w" width="1100" height="1956" loading="lazy" sizes="(min-width: 750px) 320px, 220px" draggable="false">
+                <img src="./assets/images/asset_037_ab5c8985a265.png" alt="Studio Day" srcset="./assets/images/asset_037_ab5c8985a265.png 1100w" width="1100" height="1956" loading="lazy" sizes="(min-width: 750px) 320px, 220px" draggable="false">
 
                 
 <button type="button" class="rw__zoom" data-rw-zoom="" aria-label="View look: Studio Day" tabindex="-1"></button><div class="rw__pins">
     <button type="button" class="rw__pin" data-rw-pin="1" data-tip="Hoodie" style="left: 50%; top: 28%; --pi: 1;" aria-label="1: Hoodie" tabindex="-1">
       <span class="rw__pin-dot" aria-hidden="true">1</span>
     </button>
-    <button type="button" class="rw__pin" data-rw-pin="2" data-tip="Tshirt" style="left: 48%; top: 58%; --pi: 2;" aria-label="2: Tshirt" tabindex="-1">
+    <button type="button" class="rw__pin" data-rw-pin="2" data-tip="Tshirt" style="left: 48%; top: 44%; --pi: 2;" aria-label="2: Tshirt" tabindex="-1">
       <span class="rw__pin-dot" aria-hidden="true">2</span>
     </button>
-    <button type="button" class="rw__pin" data-rw-pin="3" data-tip="Luka 5" style="left: 45%; top: 88%; --pi: 3;" aria-label="3: Luka 5" tabindex="-1">
+    <button type="button" class="rw__pin" data-rw-pin="3" data-tip="Luka 5" style="left: 45%; top: 92%; --pi: 3;" aria-label="3: Luka 5" tabindex="-1">
       <span class="rw__pin-dot" aria-hidden="true">3</span>
     </button></div></div></div>
             </div>
@@ -4490,19 +4490,19 @@ none;
               <span class="rw__mhead-title">The City Edit</span>
               <span class="rw__label">3 pieces</span>
             </div>
-            <ul class="rw__items" role="list"><li class="rw__item" data-rw-card="1" style="--i: 1;" data-title="Sweatshirt" data-selected="56835806396721"><a class="rw__media" href="/products/sweatshirt" tabindex="-1" aria-hidden="true" data-product-impression-tracked="true" data-product-link-position="3" data-impression-id="ebbd6727-88af-4c56-8f08-b24f7a324b88" data-above-fold="false" data-product-click-tracked="true"><img src="./assets/images/asset_042_bab979839384.png" alt="" srcset="https://nike-makknzjs.myshopify.com/cdn/shop/files/2610071517318112.webp?v=1792066085&amp;width=160 160w, //nike-makknzjs.myshopify.com/cdn/shop/files/2610071517318112.webp?v=1792066085&amp;width=240 240w, //nike-makknzjs.myshopify.com/cdn/shop/files/2610071517318112.webp?v=1792066085&amp;width=320 320w, //nike-makknzjs.myshopify.com/cdn/shop/files/2610071517318112.webp?v=1792066085&amp;width=400 400w" width="400" height="581" loading="lazy" sizes="110px">
+            <ul class="rw__items" role="list"><li class="rw__item" data-rw-card="1" style="--i: 1;" data-title="Blazzer" data-selected="56835806396721"><a class="rw__media" href="/products/blazzer" tabindex="-1" aria-hidden="true" data-product-impression-tracked="true" data-product-link-position="3" data-impression-id="ebbd6727-88af-4c56-8f08-b24f7a324b88" data-above-fold="false" data-product-click-tracked="true"><img src="./assets/images/asset_009_8283a9b86119.png" alt="" srcset="https://nike-makknzjs.myshopify.com/cdn/shop/files/2610071517318112.webp?v=1792066085&amp;width=160 160w, //nike-makknzjs.myshopify.com/cdn/shop/files/2610071517318112.webp?v=1792066085&amp;width=240 240w, //nike-makknzjs.myshopify.com/cdn/shop/files/2610071517318112.webp?v=1792066085&amp;width=320 320w, //nike-makknzjs.myshopify.com/cdn/shop/files/2610071517318112.webp?v=1792066085&amp;width=400 400w" width="400" height="581" loading="lazy" sizes="110px">
 <span class="rw__num">1</span></a>
-                    <div class="rw__info" data-product-card-tracked="true"><span class="rw__type">Nike</span><a class="rw__name" href="/products/sweatshirt" data-product-link-position="3" data-impression-id="ebbd6727-88af-4c56-8f08-b24f7a324b88" data-product-click-tracked="true">Sweatshirt</a>
+                    <div class="rw__info" data-product-card-tracked="true"><span class="rw__type">Nike</span><a class="rw__name" href="/products/blazzer" data-product-link-position="3" data-impression-id="ebbd6727-88af-4c56-8f08-b24f7a324b88" data-product-click-tracked="true">Blazzer</a>
                       <span class="rw__price">
                         <span>$199.00</span></span></div>
-                    <button type="button" class="rw__add" data-rw-add="" aria-expanded="false" aria-controls="Picker-template--27695055274289__the_runway_gwqgXR-look_ixPKTA-3" aria-label="Add to bag: Sweatshirt" data-added-label="Added to bag: Sweatshirt">
+                    <button type="button" class="rw__add" data-rw-add="" aria-expanded="false" aria-controls="Picker-template--27695055274289__the_runway_gwqgXR-look_ixPKTA-3" aria-label="Add to bag: Blazzer" data-added-label="Added to bag: Blazzer">
                       <svg class="rw__i-plus" width="20" height="20" viewBox="0 0 24 24" fill="none" stroke="currentColor" stroke-width="1.3" stroke-linecap="round" aria-hidden="true" focusable="false"><path d="M12 4v16M4 12h16"></path></svg>
                       <svg class="rw__i-check" width="20" height="20" viewBox="0 0 24 24" fill="none" stroke="currentColor" stroke-width="1.5" stroke-linecap="round" stroke-linejoin="round" aria-hidden="true" focusable="false"><path d="M4.5 12.5l5 5L19.5 7"></path></svg>
                       <svg class="rw__i-spin" width="18" height="18" viewBox="0 0 24 24" fill="none" stroke="currentColor" stroke-width="1.5" stroke-linecap="round" aria-hidden="true" focusable="false"><path d="M12 3a9 9 0 1 1-9 9"></path></svg>
                     </button><div class="rw__picker" id="Picker-template--27695055274289__the_runway_gwqgXR-look_ixPKTA-3" data-rw-picker="" hidden="">
                         <div class="rw__picker-head">
                           <span class="rw__picker-thumb" aria-hidden="true"><img src="./assets/images/asset_043_4a9637d3c7b2.png" alt="" srcset="https://nike-makknzjs.myshopify.com/cdn/shop/files/2610071517318112.webp?v=1792066085&amp;width=160 160w" width="160" height="232" loading="lazy"></span>
-                          <span class="rw__picker-meta"><span class="rw__picker-title">Sweatshirt</span><span class="rw__picker-price">$199.00</span></span>
+                          <span class="rw__picker-meta"><span class="rw__picker-title">Blazzer</span><span class="rw__picker-price">$199.00</span></span>
                           <button type="button" class="rw__picker-close" data-rw-pick-close="" aria-label="Close">
                             <svg width="16" height="16" viewBox="0 0 24 24" fill="none" stroke="currentColor" stroke-width="1.5" stroke-linecap="round" aria-hidden="true" focusable="false"><path d="M5 5l14 14M19 5L5 19"></path></svg>
                           </button>
@@ -4515,7 +4515,7 @@ none;
                                     <input type="radio" name="Opt-template--27695055274289__the_runway_gwqgXR-look_ixPKTA-3-1" value="XL" data-rw-option="0"><span class="rw__pill-label">XL</span></label></div>
                             </fieldset><button type="button" class="rw__confirm" data-rw-confirm="">
                           <span data-rw-confirm-label="" data-add="Add to bag">Add to bag</span>
-                          <span class="rw__sr"> — Sweatshirt</span>
+                          <span class="rw__sr"> — Blazzer</span>
                         </button>
                         <script type="application/json" data-rw-variants="">[{"id":56835806396721,"a":true,"o":["S"]},{"id":56835806429489,"a":true,"o":["L"]},{"id":56835806462257,"a":true,"o":["M"]},{"id":56835806495025,"a":true,"o":["XL"]}]</script>
                       </div></li><li class="rw__item" data-rw-card="2" style="--i: 2;" data-title="Tshirt" data-selected="56835911582001"><a class="rw__media" href="/products/tshirt" tabindex="-1" aria-hidden="true" data-product-impression-tracked="true" data-product-link-position="2" data-impression-id="2e9b2684-6d42-45fb-962f-0453de5e322d" data-above-fold="false" data-product-click-tracked="true"><img src="./assets/images/asset_040_9e259de3ac0a.png" alt="" srcset="https://nike-makknzjs.myshopify.com/cdn/shop/files/2610071515314737.webp?v=1792065932&amp;width=160 160w, //nike-makknzjs.myshopify.com/cdn/shop/files/2610071515314737.webp?v=1792065932&amp;width=240 240w, //nike-makknzjs.myshopify.com/cdn/shop/files/2610071515314737.webp?v=1792065932&amp;width=320 320w, //nike-makknzjs.myshopify.com/cdn/shop/files/2610071515314737.webp?v=1792065932&amp;width=400 400w" width="400" height="563" loading="lazy" sizes="110px">
@@ -4597,19 +4597,19 @@ none;
               <span class="rw__mhead-title">Gallery Opening</span>
               <span class="rw__label">3 pieces</span>
             </div>
-            <ul class="rw__items" role="list"><li class="rw__item" data-rw-card="1" style="--i: 1;" data-title="Hoodie Black" data-selected="56836251681073"><span class="rw__tag" aria-hidden="true"><span class="rw__tag-text">New</span></span><a class="rw__media" href="/products/hoodie-black" tabindex="-1" aria-hidden="true" data-product-link-position="5" data-impression-id="ab9ede6a-a73b-41a7-b6a4-d6a47bf8cd68" data-product-click-tracked="true"><img src="./assets/images/asset_046_d6ff453ccc72.png" alt="" srcset="https://nike-makknzjs.myshopify.com/cdn/shop/files/2610071101472773.webp?v=1792065527&amp;width=160 160w, //nike-makknzjs.myshopify.com/cdn/shop/files/2610071101472773.webp?v=1792065527&amp;width=240 240w, //nike-makknzjs.myshopify.com/cdn/shop/files/2610071101472773.webp?v=1792065527&amp;width=320 320w, //nike-makknzjs.myshopify.com/cdn/shop/files/2610071101472773.webp?v=1792065527&amp;width=400 400w" width="400" height="536" loading="lazy" sizes="110px">
+            <ul class="rw__items" role="list"><li class="rw__item" data-rw-card="1" style="--i: 1;" data-title="Sweatshirt" data-selected="56836251681073"><span class="rw__tag" aria-hidden="true"><span class="rw__tag-text">New</span></span><a class="rw__media" href="/products/sweatshirt" tabindex="-1" aria-hidden="true" data-product-link-position="5" data-impression-id="ab9ede6a-a73b-41a7-b6a4-d6a47bf8cd68" data-product-click-tracked="true"><img src="./assets/images/asset_042_bab979839384.png" alt="" srcset="https://nike-makknzjs.myshopify.com/cdn/shop/files/2610071101472773.webp?v=1792065527&amp;width=160 160w, //nike-makknzjs.myshopify.com/cdn/shop/files/2610071101472773.webp?v=1792065527&amp;width=240 240w, //nike-makknzjs.myshopify.com/cdn/shop/files/2610071101472773.webp?v=1792065527&amp;width=320 320w, //nike-makknzjs.myshopify.com/cdn/shop/files/2610071101472773.webp?v=1792065527&amp;width=400 400w" width="400" height="536" loading="lazy" sizes="110px">
 <span class="rw__num">1</span></a>
-                    <div class="rw__info" data-product-card-tracked="true"><span class="rw__type">Nike</span><a class="rw__name" href="/products/hoodie-black" data-product-link-position="5" data-impression-id="ab9ede6a-a73b-41a7-b6a4-d6a47bf8cd68" data-product-click-tracked="true">Hoodie Black</a>
+                    <div class="rw__info" data-product-card-tracked="true"><span class="rw__type">Nike</span><a class="rw__name" href="/products/sweatshirt" data-product-link-position="5" data-impression-id="ab9ede6a-a73b-41a7-b6a4-d6a47bf8cd68" data-product-click-tracked="true">Sweatshirt</a>
                       <span class="rw__price">
                         <span>$199.00</span></span></div>
-                    <button type="button" class="rw__add" data-rw-add="" aria-expanded="false" aria-controls="Picker-template--27695055274289__the_runway_gwqgXR-look_U9wcKq-2" aria-label="Add to bag: Hoodie Black" data-added-label="Added to bag: Hoodie Black">
+                    <button type="button" class="rw__add" data-rw-add="" aria-expanded="false" aria-controls="Picker-template--27695055274289__the_runway_gwqgXR-look_U9wcKq-2" aria-label="Add to bag: Sweatshirt" data-added-label="Added to bag: Sweatshirt">
                       <svg class="rw__i-plus" width="20" height="20" viewBox="0 0 24 24" fill="none" stroke="currentColor" stroke-width="1.3" stroke-linecap="round" aria-hidden="true" focusable="false"><path d="M12 4v16M4 12h16"></path></svg>
                       <svg class="rw__i-check" width="20" height="20" viewBox="0 0 24 24" fill="none" stroke="currentColor" stroke-width="1.5" stroke-linecap="round" stroke-linejoin="round" aria-hidden="true" focusable="false"><path d="M4.5 12.5l5 5L19.5 7"></path></svg>
                       <svg class="rw__i-spin" width="18" height="18" viewBox="0 0 24 24" fill="none" stroke="currentColor" stroke-width="1.5" stroke-linecap="round" aria-hidden="true" focusable="false"><path d="M12 3a9 9 0 1 1-9 9"></path></svg>
                     </button><div class="rw__picker" id="Picker-template--27695055274289__the_runway_gwqgXR-look_U9wcKq-2" data-rw-picker="" hidden="">
                         <div class="rw__picker-head">
                           <span class="rw__picker-thumb" aria-hidden="true"><img src="./assets/images/asset_047_ea52fa1c6cec.png" alt="" srcset="https://nike-makknzjs.myshopify.com/cdn/shop/files/2610071101472773.webp?v=1792065527&amp;width=160 160w" width="160" height="214" loading="lazy"></span>
-                          <span class="rw__picker-meta"><span class="rw__picker-title">Hoodie Black</span><span class="rw__picker-price">$199.00</span></span>
+                          <span class="rw__picker-meta"><span class="rw__picker-title">Sweatshirt</span><span class="rw__picker-price">$199.00</span></span>
                           <button type="button" class="rw__picker-close" data-rw-pick-close="" aria-label="Close">
                             <svg width="16" height="16" viewBox="0 0 24 24" fill="none" stroke="currentColor" stroke-width="1.5" stroke-linecap="round" aria-hidden="true" focusable="false"><path d="M5 5l14 14M19 5L5 19"></path></svg>
                           </button>
@@ -4622,7 +4622,7 @@ none;
                                     <input type="radio" name="Opt-template--27695055274289__the_runway_gwqgXR-look_U9wcKq-2-1" value="XL" data-rw-option="0"><span class="rw__pill-label">XL</span></label></div>
                             </fieldset><button type="button" class="rw__confirm" data-rw-confirm="">
                           <span data-rw-confirm-label="" data-add="Add to bag">Add to bag</span>
-                          <span class="rw__sr"> — Hoodie Black</span>
+                          <span class="rw__sr"> — Sweatshirt</span>
                         </button>
                         <script type="application/json" data-rw-variants="">[{"id":56836251681073,"a":true,"o":["S"]},{"id":56836251713841,"a":true,"o":["L"]},{"id":56836251746609,"a":true,"o":["M"]},{"id":56836251779377,"a":true,"o":["XL"]}]</script>
                       </div></li><li class="rw__item" data-rw-card="2" style="--i: 2;" data-title="Tshirt" data-selected="56835911582001"><a class="rw__media" href="/products/tshirt" tabindex="-1" aria-hidden="true" data-product-link-position="2" data-impression-id="2e9b2684-6d42-45fb-962f-0453de5e322d" data-product-click-tracked="true"><img src="./assets/images/asset_040_9e259de3ac0a.png" alt="" srcset="https://nike-makknzjs.myshopify.com/cdn/shop/files/2610071515314737.webp?v=1792065932&amp;width=160 160w, //nike-makknzjs.myshopify.com/cdn/shop/files/2610071515314737.webp?v=1792065932&amp;width=240 240w, //nike-makknzjs.myshopify.com/cdn/shop/files/2610071515314737.webp?v=1792065932&amp;width=320 320w, //nike-makknzjs.myshopify.com/cdn/shop/files/2610071515314737.webp?v=1792065932&amp;width=400 400w" width="400" height="563" loading="lazy" sizes="110px">
